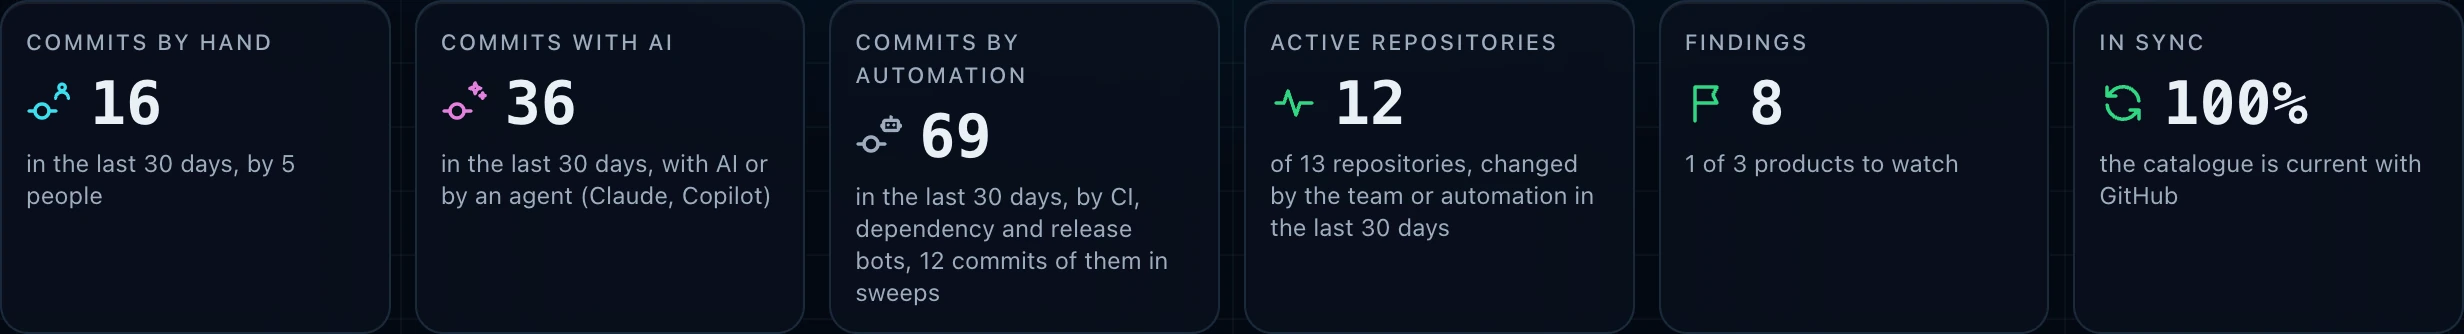
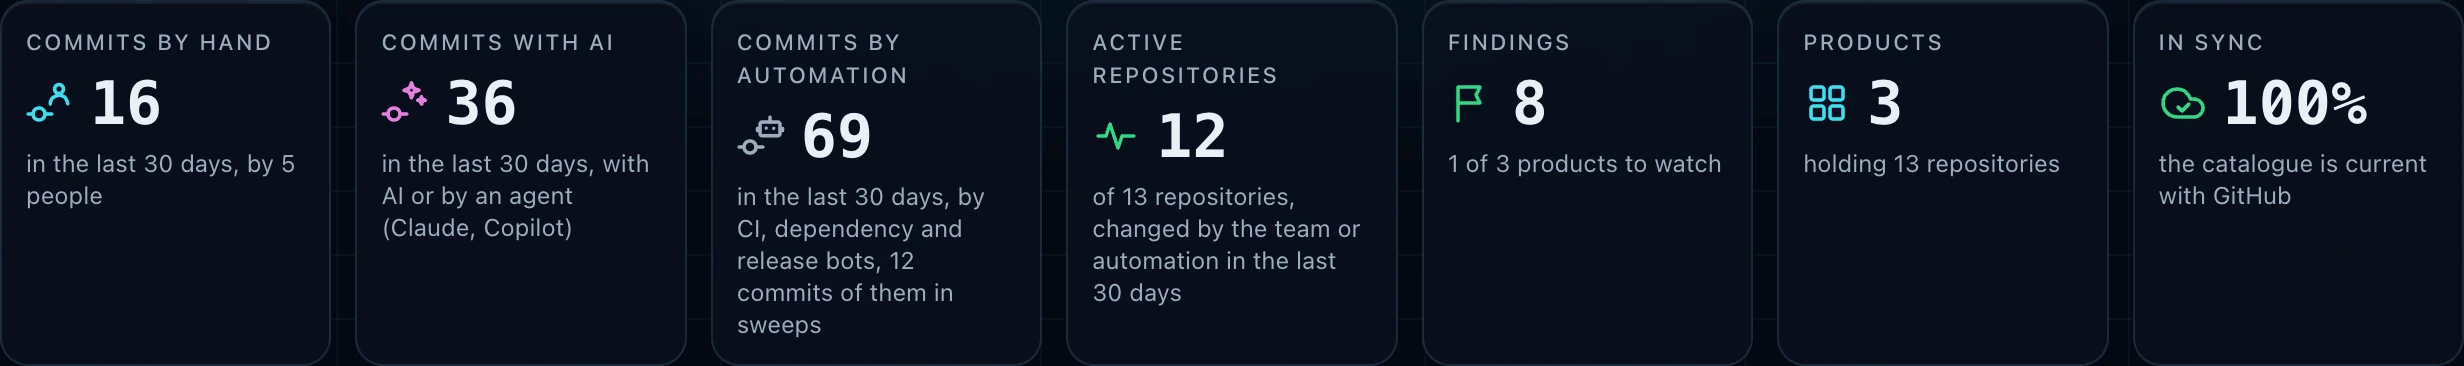
feat(web): the fleet's products as bare outlines, the products before the sync, a cloud for the sync and the commit kinds kept together (P-62)

diff --git a/web/src/features/dashboard/telemetry.tsx b/web/src/features/dashboard/telemetry.tsx
@@ -5,9 +5,9 @@ import type { Schemas } from "@/lib/api/client"
 import { cn } from "@/lib/cn"
 import { count, plural } from "@/lib/format"
 import { by, has, kinds, type WorkKind } from "@/lib/preferences"
-import { activityRule, levelLabel, window, type Rules } from "@/lib/rules"
+import { activityRule, kindOf, levelLabel, window, type Rules } from "@/lib/rules"
 import { useRules } from "@/lib/rules-context"
-import { CommitIcon, FlagIcon, PulseIcon, RefreshIcon } from "@/components/ui/icons"
+import { CloudCheckIcon, CloudOffIcon, CommitIcon, FlagIcon, GridIcon, PulseIcon } from "@/components/ui/icons"
 import { levels } from "@/entities/health/health"
 import { Hint, type HintRow } from "@/shared/hint"
 import { assistants } from "./work"
@@ -21,7 +21,7 @@ function percent(part: number, whole: number): string {
 
 /** Signal is one indicator of the fleet, the same on the dashboard (a tile) and on the presentation page (an icon in the strip). */
 export type Signal = {
-  key: WorkKind | "active" | "findings" | "sync"
+  key: WorkKind | "active" | "findings" | "products" | "sync"
   /** what it counts, in words: "Commits by hand" */
   label: string
   value: string
@@ -40,12 +40,13 @@ export type Signal = {
 /** tones are the kinds of work's colours, as the sparklines and the cards draw them (no inline style: the CSP forbids it). */
 const tones: Record<WorkKind, string> = { hand: "text-primary", ai: "text-[var(--ai)]", automation: "text-muted-foreground" }
 const dots: Record<WorkKind, string> = { hand: "bg-primary", ai: "bg-[var(--ai)]", automation: "bg-muted-foreground" }
-const drops: Record<WorkKind, string> = { hand: "@max-xl:hidden", ai: "@max-xl:hidden", automation: "@max-3xl:hidden" }
+/** commitsDrop is where a narrowing strip drops the commits: the three kinds together, the last of what goes. */
+const commitsDrop = "@max-xl:hidden"
 
 /**
  * signals are the fleet's indicators in their order: the commits of each kind of work (by hand, with AI or by an agent, by
- * automation; each says whether Settings count it), the repositories the work that counts changed, what needs a look, and whether
- * the catalogue is current. The window and the names of the levels come from the server's rules, so they say what it does today.
+ * automation; each says whether Settings count it), the repositories the work that counts changed, what needs a look, the
+ * products by their health, and whether the catalogue is current. The window and the names of the levels come from the server's rules, so they say what it does today.
  */
 export function signals(data: Schemas["Dashboard"], rules: Rules): Signal[] {
   const a = data.activity
@@ -66,7 +67,7 @@ export function signals(data: Schemas["Dashboard"], rules: Rules): Signal[] {
     icon: <CommitIcon kind={k} />,
     rows: [...rows, { label: "In the work that counts", value: has(data.work, k) ? "yes" : "no, see Settings" }],
     tone: tones[k],
-    drop: drops[k],
+    drop: commitsDrop,
   })
   return [
     commits("hand", a.hand, `in the last ${days}, by ${plural(a.authorCount, "person", "people")}`, [
@@ -89,9 +90,7 @@ export function signals(data: Schemas["Dashboard"], rules: Rules): Signal[] {
       key: "active",
       label: "Active repositories",
       value: count(at("active")),
-      detail:
-        `of ${plural(members.size, "repository", "repositories")}, changed ${by(data.work)} in the last ${days}` +
-        (data.ungroupedCount > 0 ? `; ${count(data.ungroupedCount)} more in no product` : ""),
+      detail: `of ${plural(members.size, "repository", "repositories")}, changed ${by(data.work)} in the last ${days}`,
       icon: <PulseIcon />,
       rows: (["active", "recent", "quiet"] as const).map((l) => ({
         swatch: `lvl-${l}`,
@@ -112,19 +111,36 @@ export function signals(data: Schemas["Dashboard"], rules: Rules): Signal[] {
             ? `${count(products("watch"))} of ${ofProducts} to watch`
             : `none of ${ofProducts} needs attention`,
       icon: <FlagIcon />,
+      // The most costly first, as the dashboard weighs them: each its kind and repository.
+      rows: (h?.findings ?? []).slice(0, 3).map((x) => ({
+        swatch: levels[h?.level ?? "good"].className,
+        label: `${kindOf(x.code, rules).label}: ${x.repo.split("/")[1] ?? x.repo}`,
+        value: `−${x.penalty}`,
+      })),
+      level: h ? levels[h.level].className : undefined,
+    },
+    {
+      key: "products",
+      label: "Products",
+      value: count(data.groups.length),
+      detail:
+        `holding ${plural(members.size, "repository", "repositories")}` +
+        (data.ungroupedCount > 0 ? `; ${count(data.ungroupedCount)} more in none` : ""),
+      icon: <GridIcon />,
       rows: (["attention", "watch", "good"] as const).map((l) => ({
         swatch: levels[l].className,
         label: levelLabel(l, rules),
-        value: plural(products(l), "product", "products"),
+        value: count(products(l)),
       })),
-      level: h ? levels[h.level].className : undefined,
+      tone: "text-primary",
+      drop: "@max-2xl:hidden",
     },
     {
       key: "sync",
       label: "In sync",
       value: percent(f.fresh, checked),
       detail: f.error > 0 ? `${count(f.error)} failing to update from GitHub` : "the catalogue is current with GitHub",
-      icon: <RefreshIcon />,
+      icon: f.error > 0 ? <CloudOffIcon /> : <CloudCheckIcon />,
       rows: [
         { swatch: "lvl-active", label: "Current", value: count(f.fresh) },
         { swatch: "lvl-quiet", label: "Due for a check", value: count(f.stale + f.unknown) },
@@ -155,7 +171,7 @@ export function Telemetry({ data }: { data: Schemas["Dashboard"] }) {
   const rules = useRules()
   return (
     <section aria-label="Telemetry">
-      <dl className="grid grid-cols-2 gap-3 sm:grid-cols-3 xl:grid-cols-6">
+      <dl className="grid grid-cols-2 gap-3 sm:grid-cols-4 xl:grid-cols-7">
         {signals(data, rules).map((s) => (
           <SignalHint
             key={s.key}
@@ -187,8 +203,8 @@ export function Telemetry({ data }: { data: Schemas["Dashboard"] }) {
 /**
  * TelemetryStrip is the same signals in one line, for the presentation page: each its icon and value, what it counts and its parts
  * in its hint, so the line stays short. start opens the line (the brand), end closes it (the data's age). As its container narrows
- * it keeps what matters most: the repositories changed and automation's commits go first, then people's; the findings and the
- * sync always stay.
+ * it keeps what matters most: the active repositories go first, then the products, then the commits (the three kinds together,
+ * never one without the others); the findings and the sync always stay.
  */
 export function TelemetryStrip({ data, start, end }: { data: Schemas["Dashboard"]; start?: ReactNode; end?: ReactNode }) {
   const rules = useRules()

diff --git a/web/src/features/guide/view.tsx b/web/src/features/guide/view.tsx
@@ -2,7 +2,7 @@ import Link from "next/link"
 import type { ReactNode } from "react"
 import { cn } from "@/lib/cn"
 import { kinds } from "@/lib/preferences"
-import { CommitIcon, FlagIcon, PulseIcon, RefreshIcon } from "@/components/ui/icons"
+import { CloudCheckIcon, CommitIcon, FlagIcon, GridIcon, PulseIcon } from "@/components/ui/icons"
 import { levels } from "@/entities/health/health"
 import { FindingIcon, ScoreRing, severities } from "@/entities/health/kinds"
 import { activityRule, levelRanges, severityOf, span, window, type Rules } from "@/lib/rules"
@@ -409,12 +409,12 @@ export function GuideView({ version, rules = none }: { version: string; rules?: 
           id="telemetry"
           n={2}
           title="The fleet at a glance"
-          lede="The row of tiles at the top of the dashboard, and the line at the top of the presentation page: the same six signals, each with its icon. A commit with a badge counts commits of one kind of work; the others are coloured by their state. Point at one, or tap it, for its parts."
+          lede="The row of tiles at the top of the dashboard, and the line at the top of the presentation page: the same seven signals, each with its icon. A commit with a badge counts commits of one kind of work; the others are coloured by their state. Point at one, or tap it, for its parts."
         >
           <Figure caption="The telemetry of a portal with three products and thirteen repositories.">
             <Shot
               name="telemetry"
-              alt="Six tiles: 16 commits by hand by 5 people, 36 commits with AI, 69 commits by automation with 12 in sweeps, 12 active of 13 repositories, 8 findings with 1 of 3 products to watch, 100% in sync."
+              alt="Seven tiles: 16 commits by hand by 5 people, 36 commits with AI, 69 commits by automation with 12 in sweeps, 12 active of 13 repositories, 8 findings with 1 of 3 products to watch, 3 products holding 13 repositories, 100% in sync."
             />
           </Figure>
           <Terms
@@ -456,10 +456,17 @@ export function GuideView({ version, rules = none }: { version: string; rules?: 
               ],
               [
                 <>
-                  <RefreshIcon className="size-4 text-primary" />
+                  <GridIcon className="size-4 text-primary" />
+                  Products
+                </>,
+                "The products, the repositories they hold and those in none; how many are at each health level.",
+              ],
+              [
+                <>
+                  <CloudCheckIcon className="size-4 text-primary" />
                   In sync
                 </>,
-                "The share of repositories whose data is current; red when updates from GitHub fail.",
+                "The share of repositories whose data is current with GitHub; a crossed-out cloud in red when updates fail.",
               ],
             ]}
           />
@@ -740,7 +747,7 @@ export function GuideView({ version, rules = none }: { version: string; rules?: 
             <Figure caption="The presentation page on an iPad in landscape: the fleet's numbers and how current they are, every repository's health, a wide tile for the product to watch, one line for each good one, and the newest commits at the right.">
               <Shot
                 name="present"
-                alt="The presentation page: SCP and the six signals as icons and values in one line, live; the fleet health as one cluster per product, 3 to watch and 9 good; Developer tools as a wide tile at watch with its findings as icons, Payments and Identity as small tiles; the latest commits in a column at the right."
+                alt="The presentation page: SCP and the seven signals as icons and values in one line, live; the fleet health with each product's squares in an outline, 3 to watch and 9 good; Developer tools as a wide tile at watch with its findings as icons, Payments and Identity as small tiles; the latest commits in a column at the right."
               />
             </Figure>
             <div className="grid gap-6 lg:grid-cols-2">

diff --git a/web/src/features/dashboard/fleet-map.tsx b/web/src/features/dashboard/fleet-map.tsx
@@ -208,10 +208,12 @@ function HealthMap({
 }) {
   const rules = useRules()
   const total = healthTally(members)
-  const tile = (m: Member) => (
+  // A tile's hint names its product too: the dense strip draws the products as outlines without their names.
+  const tile = (g: Group) => (m: Member) => (
     <Hint
       key={m.address}
       heading={m.name}
+      meta={g.name}
       rows={[
         ...(m.level
           ? [{ swatch: levels[m.level].className, label: "Health", value: levelLabel(m.level, rules) }]
@@ -242,8 +244,8 @@ function HealthMap({
         </ul>
       </div>
       {dense ? (
-        // One strip of clusters: each product its tiles in a hairline box under its name (cut to the tiles' width, whole in its
-        // hint), so the fleet reads as its products at a glance.
+        // One strip of clusters: each product's tiles in a hairline outline, no names (a tile's hint names its product), so the
+        // fleet reads as its products in the least room.
         <>
           <ul className="sr-only">
             {groups.map((g) => (
@@ -252,26 +254,10 @@ function HealthMap({
               </li>
             ))}
           </ul>
-          <div aria-hidden="true" className="flex flex-wrap gap-1.5">
+          <div aria-hidden="true" className="flex flex-wrap gap-1">
             {groups.map((g) => (
-              <span key={g.id} className="flex flex-col gap-0.5 rounded-sm border border-border/70 px-1 pt-0.5 pb-1">
-                <Hint
-                  heading={g.name}
-                  meta={`${count(g.members.length)} ${g.members.length === 1 ? "repository" : "repositories"}`}
-                  rows={healthLevels
-                    .map((l) => ({ l, n: g.members.filter((m) => m.level === l).length }))
-                    .filter(({ n }) => n > 0)
-                    .map(({ l, n }) => ({ swatch: levels[l].className, label: levelLabel(l, rules), value: count(n) }))}
-                  render={(t) => (
-                    <span
-                      {...t}
-                      className="w-0 min-w-full cursor-help truncate text-[0.625rem] leading-none text-muted-foreground"
-                    >
-                      {g.name}
-                    </span>
-                  )}
-                />
-                <span className="flex flex-wrap gap-1">{g.members.map(tile)}</span>
+              <span key={g.id} className="flex flex-wrap gap-1 rounded-[0.3125rem] border border-border p-[3px]">
+                {g.members.map(tile(g))}
               </span>
             ))}
           </div>
@@ -286,7 +272,7 @@ function HealthMap({
               </p>
               <p className="sr-only">{healthSummary(g.members, rules)}</p>
               <div aria-hidden="true" className="mt-1 flex max-w-[20rem] flex-wrap gap-1">
-                {g.members.map(tile)}
+                {g.members.map(tile(g))}
               </div>
             </li>
           ))}

diff --git a/web/src/components/ui/icons.tsx b/web/src/components/ui/icons.tsx
@@ -226,9 +226,9 @@ const badges = { hand: person, ai: sparkles, automation: bot } as const
 export function CommitIcon({ kind, className }: { kind: keyof typeof badges; className?: string }) {
   return (
     <Icon className={className}>
-      <circle cx="8" cy="16" r="3.5" />
-      <path d="M1.5 16h3M11.5 16H15" />
-      <g transform="translate(12.5 0.5) scale(0.46)" strokeWidth="3.6">
+      <circle cx="6.5" cy="17.5" r="3" />
+      <path d="M1 17.5h2.5M9.5 17.5H13" />
+      <g transform="translate(9 0) scale(0.625)" strokeWidth="2.9">
         {badges[kind]}
       </g>
     </Icon>
@@ -244,11 +244,36 @@ export function PulseIcon({ className }: { className?: string }) {
   )
 }
 
-/** RefreshIcon stands for the catalogue in sync with GitHub. */
-export function RefreshIcon({ className }: { className?: string }) {
+const cloud = "M17.5 19H9a7 7 0 1 1 6.71-9h1.79a4.5 4.5 0 1 1 0 9Z"
+
+/** CloudCheckIcon stands for the portal's copy of GitHub, current. */
+export function CloudCheckIcon({ className }: { className?: string }) {
   return (
     <Icon className={className}>
-      <path d="M20 11a8 8 0 0 0-13.7-4.7L4 8.5M4 13a8 8 0 0 0 13.7 4.7L20 15.5M4 4v4.5h4.5M20 20v-4.5h-4.5" />
+      <path d={cloud} />
+      <path d="m9.5 14 2 2 3.5-3.5" />
+    </Icon>
+  )
+}
+
+/** CloudOffIcon stands for the portal's copy of GitHub, failing to update. */
+export function CloudOffIcon({ className }: { className?: string }) {
+  return (
+    <Icon className={className}>
+      <path d={cloud} />
+      <path d="M3 3l18 18" />
+    </Icon>
+  )
+}
+
+/** GridIcon stands for the products: the fleet's groups of repositories. */
+export function GridIcon({ className }: { className?: string }) {
+  return (
+    <Icon className={className}>
+      <rect x="4" y="4" width="6.5" height="6.5" rx="1.5" />
+      <rect x="13.5" y="4" width="6.5" height="6.5" rx="1.5" />
+      <rect x="4" y="13.5" width="6.5" height="6.5" rx="1.5" />
+      <rect x="13.5" y="13.5" width="6.5" height="6.5" rx="1.5" />
     </Icon>
   )
 }

diff --git a/.claude/work/decisions.md b/.claude/work/decisions.md
@@ -58,5 +58,5 @@ standing instruction: the agent decides as it goes, records here and reports; de
 | P-58 | A query is words (all required), phrases, exclusions, `OR` and filters (`in`, `group`, `repo`, `lang`, `topic`, `lifecycle`, `author`, `kind`, `dep`, `before`, `after`), within 256 characters, 12 words and 8 filters; no stemming (English and Norwegian mixed, mostly names), compounds indexed whole and in parts, the last word a prefix, one edit for a word of five letters without a hit; BM25F with fixed field and kind weights; snippets and titles are parts of plain text with the matches flagged, never HTML | `design/search.md` |
 | P-59 | A tablet or a screen on a wall gets its own page, `/present`, not a compact switch on the dashboard: the layout page `present` (built-in: telemetry, the fleet map by health, products as tiles, 30 latest commits) drawn on one screen that never scrolls, the header left out (`Chrome`), the latest commits in the right column at full height (below in portrait). Products needing a look take wide tiles and never fold; good ones fold from the end into "N more good"; nothing rotates. The page says how current it is at all times: live, polling, stale past 2 minutes and offline past 10 without the stream or at once while the server fails, in a word beside the colour. The address chooses the products (`?groups=`) and the work (`?work=`), so a screen is a bookmark. Two element options: `fleet-map.color` (`activity`, `health`) and `products.view: tiles` (owner, 2026-11-05) | `design/present.md` |
 | P-60 | The presentation page's commit column is as wide as the reader drags it (20% to 60% of the screen in 5% steps, the cookie `scp-present-column`), and the elements at its left give up signals in order of importance as they narrow, by container queries rather than by the viewport: the people and the share with AI first, then the counts of products and repositories, the product tiles give up detail the same way (the good fold first, then the mildest at watch lose their wide tile and fold, then attention's narrow; attention never folds), measured after drawing; the fleet map is one dense strip without the products' names; never the products at attention or the data's age (owner, 2026-11-05) | `design/present.md` |
-| P-61 | The fleet's signals are one list (`signals` in `features/dashboard/telemetry.tsx`), drawn as tiles on the dashboard and as one line on the presentation page, in the same order and words: the commits by hand, with AI (or by an agent) and by automation (bots and sweeps; P-62 names them), Active (and the repositories in no product), Findings (of how many products), In sync. The three kinds of work are counted alike, in commits, each with the colour the sparklines give it; the products' count went into the findings. The presentation page's brand is the mark and SCP, a link to the dashboard (owner, 2026-11-05) | `design/present.md`, `design/layout.md` |
-| P-62 | The pages say what the server does, from what it tells: `GET /api/v1/rules` (`health.Describe`, built from the same values `Assess`, `LevelOf`, `SeverityOf` and `ActivityOf` apply, held to them by `TestDescribeTellsWhatAssessDoes`) gives the window of the counts, the levels and the scores they start at, the severities, the activities and the ages they cover, and every kind of finding with its name, why it matters, what it costs when, and its next step on GitHub (`action`: a label and a path below the repository's page). A finding's `code` is an open string and a kind the web has no drawing of shows a flag with the server's words, so a new rule or threshold needs no web change. The server classifies each dashboard member's activity (`DashboardMember.activity`). The root layout reads the rules once per request into a provider (`lib/rules-context.tsx`); the Guide's route reads them for its tables. The kinds of work are counted in commits and their signals say so: "Commits by hand", "with AI", "by automation", each drawn as a commit with the kind's badge (`CommitIcon`), never a person, a sparkle or a bot alone, which would read as a head count. Every signal explains its parts in its hint. A finding's mark (`FindingMark`) is a link to the finding on its repository's page (`#finding-<code>`, the repository's Health card), where its next step is, on the dashboard, the product pages and the presentation page alike (a tap shows the hint, a second follows it). The presentation page's fleet strip draws each product as a cluster: its squares in a hairline box under its name, the counts in the name's hint. The web tests read the server's rules from `web/src/test/rules.json`, held equal by `TestRulesFixture` (owner, 2026-11-05) | `design/health.md`, `design/present.md`, `design/web.md` |
+| P-61 | The fleet's signals are one list (`signals` in `features/dashboard/telemetry.tsx`), drawn as tiles on the dashboard and as one line on the presentation page, in the same order and words: the commits by hand, with AI (or by an agent) and by automation (bots and sweeps; P-62 names them), Active (and the repositories in no product), Findings (of how many products), In sync (P-62 adds Products). The three kinds of work are counted alike, in commits, each with the colour the sparklines give it; the products' count went into the findings. The presentation page's brand is the mark and SCP, a link to the dashboard (owner, 2026-11-05) | `design/present.md`, `design/layout.md` |
+| P-62 | The pages say what the server does, from what it tells: `GET /api/v1/rules` (`health.Describe`, built from the same values `Assess`, `LevelOf`, `SeverityOf` and `ActivityOf` apply, held to them by `TestDescribeTellsWhatAssessDoes`) gives the window of the counts, the levels and the scores they start at, the severities, the activities and the ages they cover, and every kind of finding with its name, why it matters, what it costs when, and its next step on GitHub (`action`: a label and a path below the repository's page). A finding's `code` is an open string and a kind the web has no drawing of shows a flag with the server's words, so a new rule or threshold needs no web change. The server classifies each dashboard member's activity (`DashboardMember.activity`). The root layout reads the rules once per request into a provider (`lib/rules-context.tsx`); the Guide's route reads them for its tables. The kinds of work are counted in commits and their signals say so: "Commits by hand", "with AI", "by automation", each drawn as a commit with the kind's badge (`CommitIcon`), never a person, a sparkle or a bot alone, which would read as a head count. Every signal explains its parts in its hint. A finding's mark (`FindingMark`) is a link to the finding on its repository's page (`#finding-<code>`, the repository's Health card), where its next step is, on the dashboard, the product pages and the presentation page alike (a tap shows the hint, a second follows it). The fleet's signals gain the products (a grid icon, their counts by level in the hint) before the sync, whose icon is a cloud with a check, crossed out while updates fail; the three kinds of commits stay or go together as a strip narrows. The presentation page's fleet strip draws each product as a cluster: its squares in a hairline outline without a name, which each square's hint gives. The web tests read the server's rules from `web/src/test/rules.json`, held equal by `TestRulesFixture` (owner, 2026-11-05) | `design/health.md`, `design/present.md`, `design/web.md` |

diff --git a/.claude/work/design/present.md b/.claude/work/design/present.md
@@ -49,15 +49,16 @@ fits from 1024 to 1920 pixels wide.
 ```
 
 - **Status strip**, one line: the brand at its start (the mark and SCP, a link to the dashboard; the mark alone in a narrow column),
-  then the dashboard's six signals in the same order (`signals` in `telemetry.tsx`, one list for both pages), each its icon and value
-  alone: the commits by hand, with AI and by automation (a commit with the kind's badge, in the kind's colour as the sparklines draw
-  it: commits, not people or bots, P-62), then the active repositories, the findings and the sync in their levels' colours; the name,
-  what it counts and its parts (the people, the assistants, the bots and sweeps, the activities, the products by level, the
-  repositories by freshness) in its hint. The freshness indicator closes it.
+  then the dashboard's seven signals in the same order (`signals` in `telemetry.tsx`, one list for both pages), each its icon and
+  value alone: the commits by hand, with AI and by automation (a commit with the kind's badge, in the kind's colour as the sparklines
+  draw it: commits, not people or bots, P-62), the active repositories, the findings, the products (a grid) and the sync (a cloud
+  with a check, crossed out in red while updates fail); the name, what it counts and its parts (the people, the assistants, the bots
+  and sweeps, the activities, the costliest findings, the products by level, the repositories by freshness) in its hint. As the
+  column narrows the active repositories go first, then the products, then the three kinds of commits together. The freshness indicator closes it.
 - **Fleet health**: the `fleet-map` coloured by health level instead of activity (one square per repository, the level's colour and
-  a shape, attention outlined and watch round, so colour is never alone), drawn dense: one strip of clusters, each product its squares in
-  a hairline box under its name in small type (cut to the squares' width, whole with its counts by level in the name's hint; a tap on
-  a square names its repository, a screen reader hears each product's counts), so the fleet reads as its products (P-62). The legend counts the levels on the title line. On Cantara's 134
+  a shape, attention outlined and watch round, so colour is never alone), drawn dense: one strip of clusters, each product's squares in
+  a hairline outline without a name (a tap on a square names its repository and its product; a screen reader hears each product's
+  counts), so the fleet reads as its products in the least room (P-62). The legend counts the levels on the title line. On Cantara's 134
   repositories in 13 products it is 106 px high where the labelled map took 240; 1,000 repositories take about 15 rows.
 - **Products as tiles**: a product at watch or attention takes a wide tile of three lines (name, then the level as the fleet map draws it, round for watch and outlined for attention, with how many repositories are at it, "● 6", the words in its hint;
   the last change, the release and the 12-week sparkline of the work that counts; its findings as the dashboard draws them: the finding's mark (the kind's icon on its severity's tile) and the repository, without the reason; the mark's hint tells the kind, severity, cost, what was found and the next step, and the mark opens the finding on its repository's page; two lines of them, the most costly first). A good
